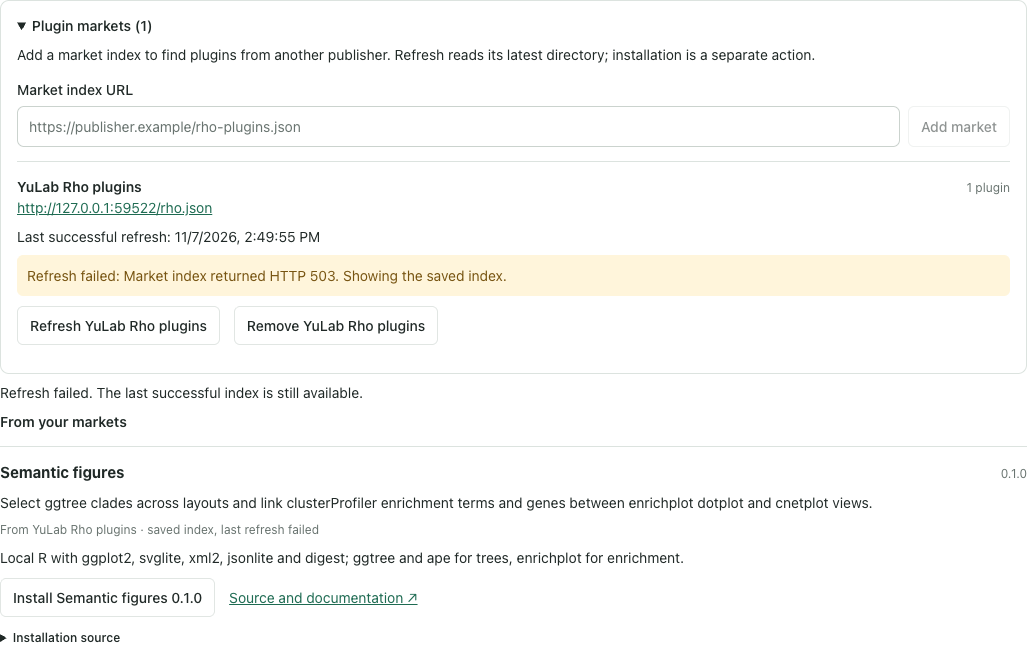
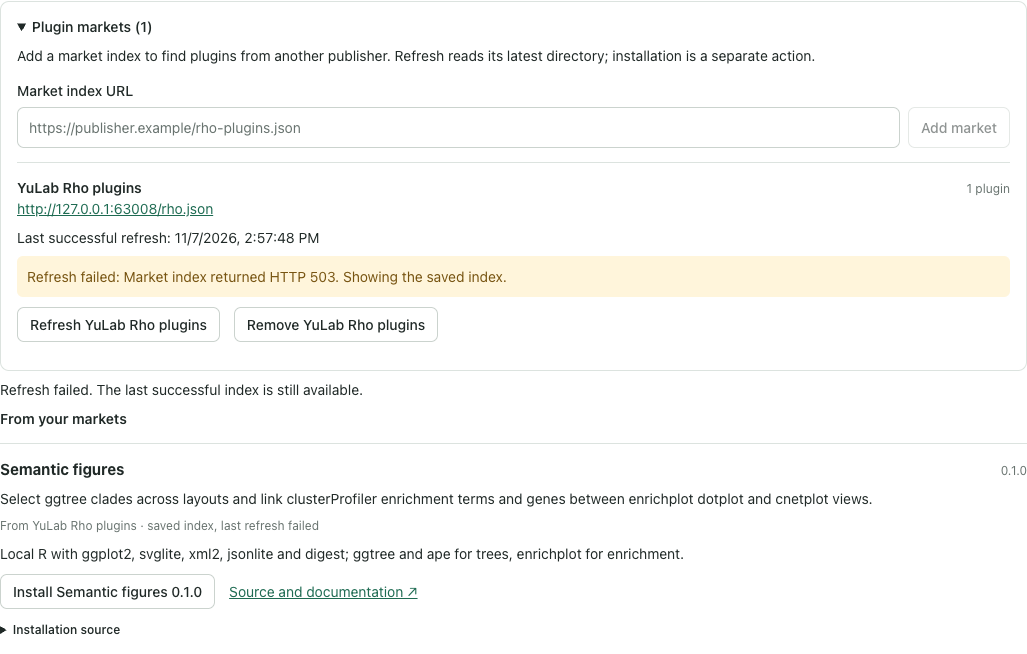
Verify remote markets against the published HTTPS index

diff --git a/docs/PLUGIN-MARKETS-EPISODE.md b/docs/PLUGIN-MARKETS-EPISODE.md
@@ -54,13 +54,34 @@ package digest.
 
 The new operation also needed an explicit top-level object schema for Rho's
 discovery projection. Its focused projection and HTTP/CLI checks pass. A broader
-all-operation adapter probe reached an existing missing-effect-contract refusal
-outside this new operation; that broad adapter path is not claimed as passing.
+all-operation adapter probe stopped at a missing-effect-contract refusal; that
+broad adapter path was not investigated further and is not claimed as passing.
+
+## Published HTTPS index
+
+The [public index](https://raw.githubusercontent.com/YuLab-SMU/Rho/main/site/market/rho.json)
+was published in Rho commit `1be1be80`. A fresh disposable service added that exact
+URL through the CLI, then the browser found `clusterProfiler`, installed the
+fixed public Git package and opened Interactive figures. A second explicit
+refresh of the public URL succeeded. The full public URL and controls also fit
+the 390 px view without horizontal overflow. The returned package digest matched the
+controlled episode, and no scientific runtime started. This run also included
+the Plugins page changes from `7f923118`; the controlled failure/recovery episode
+was repeated on that combination afterward.
+
+![The real HTTPS index, before installation](plugin-markets/public-search.png)
+
+The [public report](plugin-markets/public-report.json) keeps the exact URL, index
+digest, package digest, timestamp and browser. Repeat with
+`node scripts/plugin-markets-public-episode.mjs`; this uses the real HTTPS and
+Git endpoints and closes its owned browser and service. Both episode scripts
+leave disposable state and evidence in their output folder for inspection.
 
 ## Verification and limits
 
 - `npm run build` and `npm run check:contracts` passed.
-- `node --test test/extension-markets.test.mjs test/extensions.test.mjs`: 9 passed.
+- `node --test test/extension-markets.test.mjs test/extensions.test.mjs test/protocol.test.mjs test/validate.test.mjs`:
+  15 passed on the combined source, including 9 extension checks.
   These cover restart/cache behavior, invalid formats and sources, streamed size,
   entry/source/time limits, stale revisions and digests, actual staged package
   identity/version mismatches, CLI/API consistency and Agent authorization.
@@ -73,9 +94,10 @@ outside this new operation; that broad adapter path is not claimed as passing.
   `RHO_MARKET_EPISODE` selects a disposable output folder; the script closes its
   browser, service and fixture server after the run.
 
-The new [public HTTPS index](https://raw.githubusercontent.com/YuLab-SMU/Rho/main/site/market/rho.json)
-is included in this source change; verification of that published endpoint is
-pending publication. The controlled HTTP fixture is not evidence of a published
-HTTPS index. This pass does not establish independent-user usability, other OS
-behavior, registry publication, market signing, automatic updates, or installation
-into the person's running Rho. No npm release was made.
+Both browser runs passed with no page errors. Screenshots were read after the
+combined run; the narrow layout wraps the source URL and stacks its controls.
+The four changed documentation pages were rendered and inspected, and the
+documentation build and link/assembly check passed. This pass does not establish
+independent-user usability, other OS behavior, registry publication, market
+signing, automatic updates, or installation into the person's running Rho. No
+npm release was made.

diff --git a/docs/STATUS.md b/docs/STATUS.md
@@ -4,7 +4,7 @@ Updated: 2026-11-07.
 
 ## Current focus
 
-[Remote plugin markets](PLUGIN-MARKETS-EPISODE.md): people add, refresh and remove HTTPS indexes in Plugins or the CLI. Cached keywords find Semantic figures through `ggtree` and `clusterProfiler`; reads make no network requests. Failed refreshes retain the previous index, installs bind its digest and check the package identity/version, and removal keeps installed packages searchable. Nine focused tests, contract checks and the real Chrome/public Git episode passed at four widths. The optional YuLab index is included in source; its public HTTPS observation is pending publication. Source after 0.5.6; no npm delivery or restart of the person's running instance.
+[Remote plugin markets](PLUGIN-MARKETS-EPISODE.md): people add, refresh and remove HTTPS indexes in Plugins or the CLI. Cached keywords find Semantic figures through `ggtree` and `clusterProfiler`; reads make no network requests. Failed refreshes retain the previous index, installs bind its digest and check the package identity/version, and removal keeps installed packages searchable. Fifteen focused checks, the contract check and the real Chrome/public Git episode passed at four widths. A second fresh service added the published YuLab HTTPS index through the CLI, found and installed Semantic figures in the browser, opened its view and refreshed the public source. Source after 0.5.6; no npm delivery or restart of the person's running instance.
 
 [Semantic figures](SEMANTIC-FIGURES-EPISODE.md): an independently installed plugin with separate ggtree and enrichplot adapters runs clade selection across rectangular/circular layouts and term/gene linking between dotplot and cnetplot. The real R/Chrome episode and five owner checks passed, including reopening, stale selection, bad input and changed-source behavior. Stage 1; the Plugins frame and small plot labels still cost scrolling and reading. No Studio integration, automatic Agent interpretation or semantic migration; no npm delivery or change to the user’s running instance.
 
